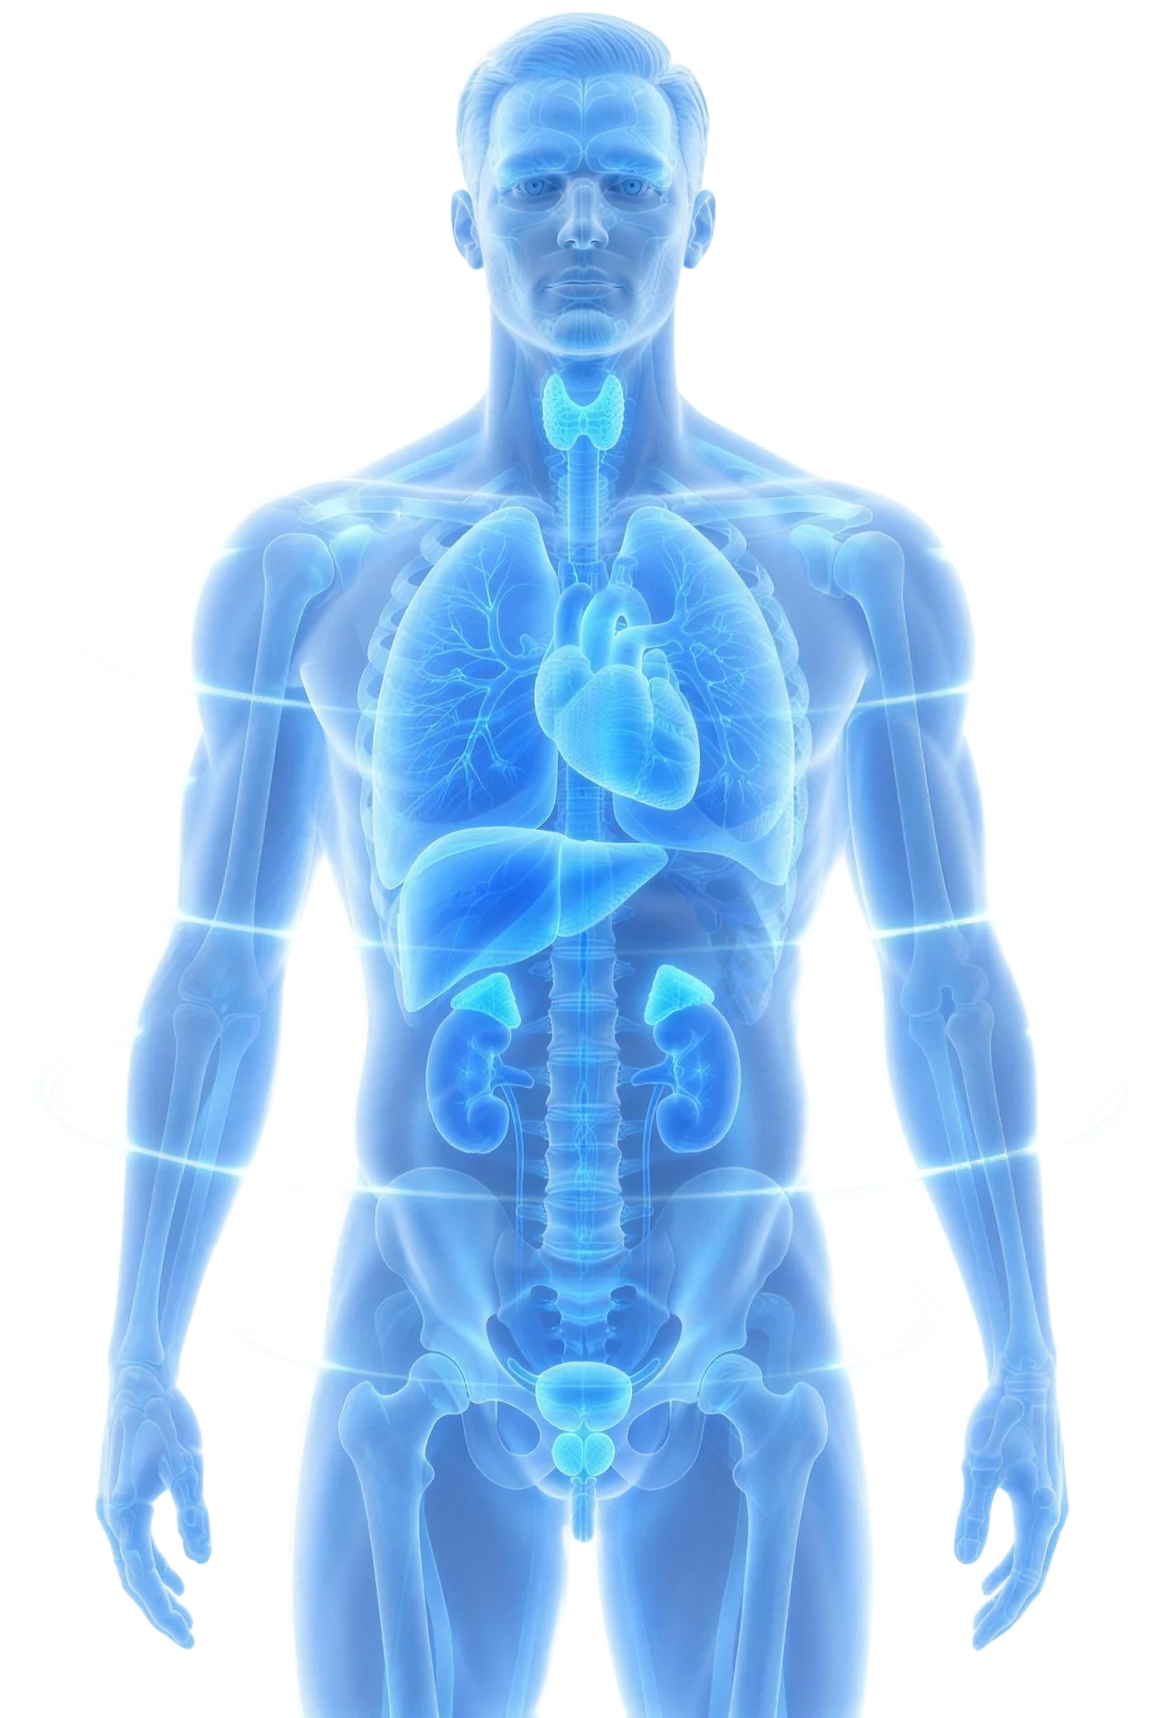
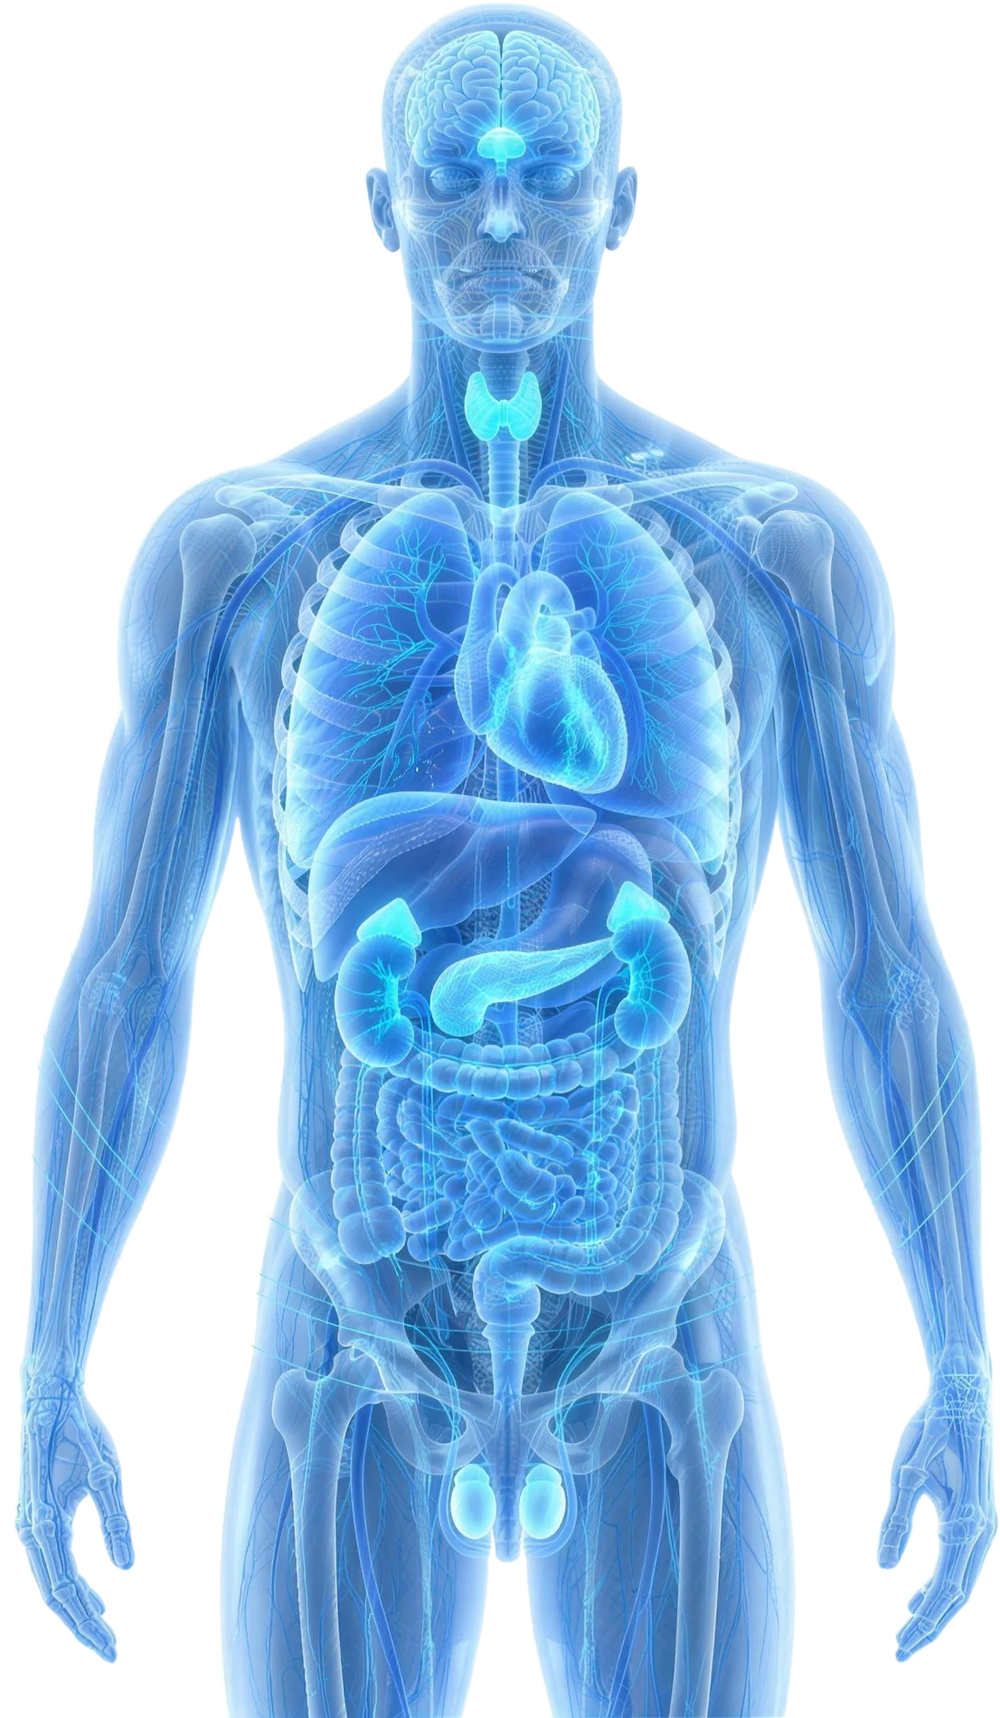
Hero: men and women anatomy figures, every protocol as a body hotspot with a CTA; panel markers section
- Two Higgsfield figures (GPT Image, 2K, cut out): detailed blue male, rose female; Men/Women toggle in the frame, frame tints rose for women
- Eleven hotspots per sex mapping all nine protocols (brain, scalp, skin, thyroid, heart, muscle, liver and kidneys, metabolic, joints, reproductive, sexual health); each label shows the panel markers, one line on what they describe, and a protocol CTA that links to the program page
- Label card stays inside the frame on either side
- New PanelMarkers section after the report preview: men's and women's panels as two glass columns with grouped test names

diff --git a/components/home/AnatomyFigure.tsx b/components/home/AnatomyFigure.tsx
@@ -2,31 +2,79 @@
 
 import { useEffect, useRef, useState } from 'react'
 import Image from 'next/image'
+import Link from 'next/link'
 import { motion, useTransform, useReducedMotion, type MotionValue } from 'framer-motion'
 
 const ease = [0.22, 1, 0.36, 1] as const
 
-/** Every hotspot names tests on the Apex panel. No outcomes, no medicines. */
-export const HOTSPOTS = [
-  { id: 'thyroid',  label: 'Thyroid',        markers: 'TSH · Free T4 · Free T3',                 x: 50, y: 27 },
-  { id: 'heart',    label: 'Heart and vessels', markers: 'Lipids · ApoB · hs-CRP',               x: 46, y: 38 },
-  { id: 'liver',    label: 'Liver',          markers: 'ALT · AST · GGT',                          x: 42, y: 48 },
-  { id: 'adrenal',  label: 'Adrenals',       markers: 'Cortisol · DHEA-S',                        x: 57, y: 46 },
-  { id: 'metabolic',label: 'Metabolic',      markers: 'HbA1c · Fasting insulin · Glucose',        x: 52, y: 54 },
-  { id: 'repro',    label: 'Reproductive',   markers: 'Testosterone · SHBG · Oestradiol · LH',    x: 50, y: 68 },
-] as const
+export type Sex = 'male' | 'female'
+
+type Hotspot = {
+  id: string
+  label: string
+  /** Tests on the Apex panel. Names of tests only, never medicines or outcomes. */
+  markers: string
+  /** One line on what the markers describe. */
+  tells: string
+  /** The pathway that reads these markers first. */
+  protocol: { code: string; name: string; href: string }
+  x: number
+  y: number
+}
+
+// One hotspot per protocol, placed where the body tells the story. Test
+// names only, never medicines or outcomes.
+const SHARED: Omit<Hotspot, 'x' | 'y'>[] = [
+  { id: 'brain',     label: 'Brain and pituitary', markers: 'LH · FSH · Prolactin · IGF-1',                  tells: 'The signals that drive the rest of the hormone system, and how you age.', protocol: { code: 'APX-05', name: 'Anti-Ageing and Longevity', href: '/programs/longevity' } },
+  { id: 'hair',      label: 'Scalp and hair',      markers: 'DHT · SHBG · Ferritin · Thyroid',              tells: 'The four markers behind thinning and shedding.',                        protocol: { code: 'APX-07', name: 'Hair Restoration', href: '/programs/hair-restoration' } },
+  { id: 'skin',      label: 'Skin',                markers: 'Cortisol · DHEA-S · hs-CRP · Zinc · Vitamin D', tells: 'Stress, inflammation and the nutrients skin repairs with.',             protocol: { code: 'APX-06', name: 'Skin Regeneration', href: '/programs/skin-regeneration' } },
+  { id: 'thyroid',   label: 'Thyroid',             markers: 'TSH · Free T4 · Free T3',                      tells: 'Energy, temperature, weight and mood set-point.',                       protocol: { code: 'APX-02', name: 'Medical Weight Loss', href: '/programs/metabolic-weight-loss' } },
+  { id: 'heart',     label: 'Heart and vessels',   markers: 'Lipids · ApoB · hs-CRP · Full blood count',    tells: 'Cardiovascular risk, oxygen carrying and background inflammation.',     protocol: { code: 'APX-09', name: 'Comprehensive Blood Tests', href: '/programs/pathology' } },
+  { id: 'muscle',    label: 'Muscle and recovery', markers: 'Testosterone · IGF-1 · Creatine kinase · Ferritin', tells: 'Output, recovery between sessions and body composition.',           protocol: { code: 'APX-08', name: 'Performance Plus', href: '/programs/performance-plus' } },
+  { id: 'liver',     label: 'Liver and kidneys',   markers: 'ALT · AST · GGT · eGFR · Electrolytes',        tells: 'How the body is coping with load, and what is safe to prescribe.',      protocol: { code: 'APX-09', name: 'Comprehensive Blood Tests', href: '/programs/pathology' } },
+  { id: 'metabolic', label: 'Metabolic',           markers: 'HbA1c · Fasting insulin · Glucose · Magnesium', tells: 'Blood sugar control, insulin resistance and where weight sits.',      protocol: { code: 'APX-02', name: 'Medical Weight Loss', href: '/programs/metabolic-weight-loss' } },
+  { id: 'joint',     label: 'Joints and tissue',   markers: 'hs-CRP · Vitamin D · Collagen markers · IGF-1', tells: 'Inflammation and the repair signals after injury.',                    protocol: { code: 'APX-04', name: 'Recovery and Injury Repair', href: '/programs/injury-repair' } },
+]
+
+const MALE_REPRO: Omit<Hotspot, 'x' | 'y'>[] = [
+  { id: 'repro',  label: 'Reproductive',  markers: 'Total and free testosterone · SHBG · Oestradiol · PSA', tells: 'Drive, muscle, mood and recovery.',            protocol: { code: 'APX-01', name: 'Hormone Optimisation', href: '/programs/hormone-optimisation' } },
+  { id: 'sexual', label: 'Sexual health', markers: 'Testosterone · Prolactin · Lipids · HbA1c',            tells: 'The hormonal and vascular side of performance.', protocol: { code: 'APX-03', name: 'Sexual Health', href: '/programs/sexual-health' } },
+]
+const FEMALE_REPRO: Omit<Hotspot, 'x' | 'y'>[] = [
+  { id: 'repro',  label: 'Reproductive',  markers: 'Oestradiol · Progesterone · FSH · LH · Testosterone', tells: 'Cycle, energy, mood and body composition.',      protocol: { code: 'APX-01', name: 'Hormone Optimisation', href: '/programs/hormone-optimisation' } },
+  { id: 'sexual', label: 'Sexual health', markers: 'Oestradiol · Testosterone · Prolactin · Thyroid',     tells: 'Libido, comfort and the hormones behind both.',  protocol: { code: 'APX-03', name: 'Sexual Health', href: '/programs/sexual-health' } },
+]
+
+/** Positions are percentages of the frame, tuned to each figure. */
+const POS: Record<Sex, Record<string, [number, number]>> = {
+  male:   { brain: [50, 11], hair: [50, 5], skin: [56, 16], thyroid: [50, 27], heart: [52, 38], muscle: [33, 34], liver: [43, 48], metabolic: [49, 55], joint: [68, 44], repro: [50, 73], sexual: [50, 80] },
+  female: { brain: [50, 11], hair: [50, 5], skin: [56, 16], thyroid: [50, 27], heart: [52, 38], muscle: [34, 34], liver: [43, 48], metabolic: [49, 55], joint: [67, 44], repro: [50, 63], sexual: [50, 72] },
+}
+
+export function hotspotsFor(sex: Sex): Hotspot[] {
+  const list = [...SHARED, ...(sex === 'male' ? MALE_REPRO : FEMALE_REPRO)]
+  return list.map(h => ({ ...h, x: POS[sex][h.id][0], y: POS[sex][h.id][1] }))
+}
+
+const FIGURE: Record<Sex, { src: string; alt: string }> = {
+  male:   { src: '/photos/anatomy.webp',        alt: 'A translucent male figure showing the systems the Apex panel measures' },
+  female: { src: '/photos/anatomy-female.webp', alt: 'A translucent female figure showing the systems the Apex panel measures' },
+}
 
 /**
- * The interactive anatomy piece. A translucent figure on a soft mesh with
- * six hotspots, each naming the panel markers for that system. The active
- * hotspot cycles on its own until the visitor hovers or taps one; the whole
- * figure breathes and leans with the cursor.
+ * The interactive anatomy piece. A translucent figure on a soft mesh with a
+ * hotspot per system. Each hotspot names the panel markers for that system,
+ * what they describe, and the protocol that reads them first, with a link.
+ * Men and women each get their own figure and reproductive markers. The
+ * active hotspot cycles on its own until the visitor touches one.
  */
 export default function AnatomyFigure({ sx, sy }: { sx: MotionValue<number>; sy: MotionValue<number> }) {
   const reduced = useReducedMotion()
-  const [active, setActive] = useState(0)
+  const [sex, setSex] = useState<Sex>('male')
+  const [active, setActive] = useState(1)
   const [manual, setManual] = useState(false)
   const timer = useRef<number | null>(null)
+  const spots = hotspotsFor(sex)
   const figX = useTransform(sx, v => v * 10)
   const figY = useTransform(sy, v => v * 10)
   const rotY = useTransform(sx, v => v * 4)
@@ -34,13 +82,14 @@ export default function AnatomyFigure({ sx, sy }: { sx: MotionValue<number>; sy:
 
   useEffect(() => {
     if (manual || reduced) return
-    timer.current = window.setInterval(() => setActive(a => (a + 1) % HOTSPOTS.length), 3200)
+    timer.current = window.setInterval(() => setActive(a => (a + 1) % spots.length), 3400)
     return () => { if (timer.current) window.clearInterval(timer.current) }
-  }, [manual, reduced])
+  }, [manual, reduced, spots.length])
 
   const pick = (i: number) => { setManual(true); setActive(i) }
-  const spot = HOTSPOTS[active]
-  const labelLeft = spot.x < 50
+  const spot = spots[active]
+  // The card sits on whichever side has room; never past the frame edge.
+  const labelLeft = spot.x >= 46
 
   return (
     <div className="relative" id="hero-anatomy-slot" aria-label="The systems on the Apex panel">
@@ -49,23 +98,25 @@ export default function AnatomyFigure({ sx, sy }: { sx: MotionValue<number>; sy:
         initial={reduced ? false : { opacity: 0, y: 30, scale: 0.97 }}
         animate={{ opacity: 1, y: 0, scale: 1 }}
         transition={{ duration: 1.1, delay: 0.2, ease }}
-        className="relative mesh rounded-[32px] overflow-hidden"
+        className={`relative ${sex === 'female' ? 'mesh-rose' : 'mesh'} rounded-[32px] overflow-hidden`}
       >
         <div aria-hidden="true" className="absolute inset-0" style={{ boxShadow: 'inset 0 0 0 1px rgba(255,255,255,0.9), inset 0 -80px 120px rgba(255,255,255,0.6)' }} />
 
-        {/* Concentric rings behind the figure. */}
         <svg aria-hidden="true" viewBox="0 0 400 500" className="absolute inset-0 w-full h-full" style={{ opacity: 0.5 }}>
           {[70, 120, 170, 220].map(r => (
             <circle key={r} cx="200" cy="230" r={r} fill="none" stroke="rgba(72,144,247,0.22)" strokeWidth="1" strokeDasharray={r > 120 ? '2 6' : undefined} />
           ))}
         </svg>
 
-        <div className={`absolute inset-[6%] ${reduced ? '' : 'breathe'}`}>
-          <Image src="/photos/anatomy.webp" alt="A translucent human figure showing the systems the Apex panel measures" fill priority sizes="(min-width: 1024px) 520px, 100vw" className="object-contain" style={{ objectPosition: '50% 50%' }} />
-        </div>
+        {/* The figure. Both are mounted so the toggle is instant; only one is visible. */}
+        {(['male', 'female'] as Sex[]).map(s => (
+          <motion.div key={s} className={`absolute inset-[6%] ${reduced ? '' : 'breathe'}`} initial={false} animate={{ opacity: s === sex ? 1 : 0, scale: s === sex ? 1 : 0.98 }} transition={{ duration: 0.5, ease }} style={{ pointerEvents: 'none' }}>
+            <Image src={FIGURE[s].src} alt={s === sex ? FIGURE[s].alt : ''} fill priority={s === 'male'} sizes="(min-width: 1024px) 520px, 100vw" className="object-contain" />
+          </motion.div>
+        ))}
 
         {/* Hotspots */}
-        {HOTSPOTS.map((h, i) => {
+        {spots.map((h, i) => {
           const on = i === active
           return (
             <button
@@ -77,7 +128,7 @@ export default function AnatomyFigure({ sx, sy }: { sx: MotionValue<number>; sy:
               aria-label={`${h.label}: ${h.markers}`}
               aria-pressed={on}
               className="absolute w-7 h-7 -ml-3.5 -mt-3.5 rounded-full flex items-center justify-center focus-visible:outline focus-visible:outline-2 focus-visible:outline-offset-2"
-              style={{ left: `${h.x}%`, top: `${h.y}%`, outlineColor: 'var(--blue)', background: 'transparent', border: 'none', cursor: 'pointer', zIndex: on ? 3 : 2 }}
+              style={{ left: `${h.x}%`, top: `${h.y}%`, outlineColor: 'var(--blue)', background: 'transparent', border: 'none', cursor: 'pointer', zIndex: on ? 3 : 2, transition: 'left 0.5s ease, top 0.5s ease' }}
             >
               {on && !reduced && <span aria-hidden="true" className="hotspot-ring absolute inset-0 rounded-full" style={{ background: 'rgba(72,144,247,0.35)' }} />}
               <span aria-hidden="true" className="relative rounded-full transition-all duration-300" style={{ width: on ? 12 : 8, height: on ? 12 : 8, background: on ? 'var(--blue)' : '#fff', boxShadow: on ? '0 0 0 4px rgba(255,255,255,0.9), 0 0 24px rgba(72,144,247,0.6)' : '0 0 0 2px rgba(72,144,247,0.6)' }} />
@@ -85,19 +136,34 @@ export default function AnatomyFigure({ sx, sy }: { sx: MotionValue<number>; sy:
           )
         })}
 
-        {/* The active label */}
+        {/* The active label: markers, what they tell you, and the protocol CTA. */}
         <motion.div
-          key={spot.id}
+          key={`${sex}-${spot.id}`}
           initial={reduced ? false : { opacity: 0, y: 6, scale: 0.98 }}
           animate={{ opacity: 1, y: 0, scale: 1 }}
           transition={{ duration: 0.35, ease }}
-          className="absolute glass-card pointer-events-none"
-          style={{ left: labelLeft ? undefined : `${spot.x + 5}%`, right: labelLeft ? `${100 - spot.x + 5}%` : undefined, top: `${spot.y - 3}%`, padding: '10px 14px', borderRadius: 16, maxWidth: 220, zIndex: 4 }}
+          className="absolute glass-card"
+          style={{ left: labelLeft ? undefined : `${Math.min(spot.x + 5, 52)}%`, right: labelLeft ? `${Math.min(100 - spot.x + 4, 52)}%` : undefined, top: `${Math.min(Math.max(spot.y - 4, 16), 62)}%`, padding: '12px 14px 12px', borderRadius: 18, width: 236, maxWidth: '46%', zIndex: 4 }}
           aria-live="polite"
         >
-          <span className="block text-[12.5px] font-semibold" style={{ color: 'var(--text-primary)', letterSpacing: '-0.01em' }}>{spot.label}</span>
+          <span className="block text-[13px] font-semibold" style={{ color: 'var(--text-primary)', letterSpacing: '-0.01em' }}>{spot.label}</span>
           <span className="block text-[11px] mt-0.5 leading-snug" style={{ color: 'var(--text-secondary)' }}>{spot.markers}</span>
+          <span className="block text-[11px] mt-1.5 leading-snug" style={{ color: 'var(--text-muted)' }}>{spot.tells}</span>
+          <Link href={spot.protocol.href} className="mt-2.5 inline-flex items-center gap-1.5 no-underline text-[11.5px] font-semibold rounded-full" style={{ padding: '7px 11px', background: 'var(--text-primary)', color: '#fff' }}>
+            <span className="t-mono" style={{ fontSize: 8.5, opacity: 0.7 }}>{spot.protocol.code}</span>
+            {spot.protocol.name}
+            <svg viewBox="0 0 16 16" fill="none" width={11} height={11} aria-hidden="true"><path d="M3 8h10M9 4l4 4-4 4" stroke="currentColor" strokeWidth="2" strokeLinecap="round" strokeLinejoin="round" /></svg>
+          </Link>
         </motion.div>
+
+        {/* Sex toggle */}
+        <div className="absolute right-5 top-5 glass-card flex" style={{ padding: 4, borderRadius: 999 }} role="group" aria-label="Show figure for">
+          {(['male', 'female'] as Sex[]).map(s => (
+            <button key={s} type="button" onClick={() => { setSex(s); setManual(true) }} aria-pressed={sex === s} className="t-mono rounded-full transition-colors duration-200" style={{ padding: '7px 12px', fontSize: 9.5, background: sex === s ? 'var(--text-primary)' : 'transparent', color: sex === s ? '#fff' : 'var(--text-muted)', border: 'none', cursor: 'pointer' }}>
+              {s === 'male' ? 'Men' : 'Women'}
+            </button>
+          ))}
+        </div>
 
         {/* Readout chips */}
         <div className="absolute left-5 top-5 glass-card" style={{ padding: '12px 16px', borderRadius: 18 }}>
@@ -114,9 +180,8 @@ export default function AnatomyFigure({ sx, sy }: { sx: MotionValue<number>; sy:
         </p>
       </motion.div>
 
-      {/* Hotspot index under the frame: keyboard and touch users get a list. */}
       <ul className="list-none p-0 m-0 mt-4 flex flex-wrap gap-2" aria-label="Systems on the panel">
-        {HOTSPOTS.map((h, i) => (
+        {spots.map((h, i) => (
           <li key={h.id}>
             <button type="button" onClick={() => pick(i)} className="t-mono rounded-full transition-colors duration-200" style={{ padding: '7px 11px', fontSize: 9.5, background: i === active ? 'var(--text-primary)' : 'transparent', color: i === active ? '#fff' : 'var(--text-muted)', border: `1px solid ${i === active ? 'var(--text-primary)' : 'var(--border)'}`, cursor: 'pointer' }}>
               {h.label}

diff --git a/components/home/PanelMarkers.tsx b/components/home/PanelMarkers.tsx
@@ -1,0 +1,87 @@
+'use client'
+
+import { useRef } from 'react'
+import Link from 'next/link'
+import { motion, useInView, useReducedMotion } from 'framer-motion'
+import RevealText from '@/components/motion/RevealText'
+
+const ease = [0.22, 1, 0.36, 1] as const
+
+/** What the doctor orders. Test names only, grouped the way the report groups them. */
+const MEN = [
+  ['Hormones', 'Total and free testosterone, SHBG, oestradiol, LH, FSH, prolactin, DHEA-S, cortisol'],
+  ['Growth', 'IGF-1'],
+  ['Thyroid', 'TSH, free T4, free T3'],
+  ['Metabolic', 'Fasting glucose, HbA1c, fasting insulin, magnesium'],
+  ['Lipids and heart', 'Total cholesterol, triglycerides, HDL, LDL, ApoB, hs-CRP'],
+  ['Liver and kidney', 'Liver function (LFT), kidney function (UEC)'],
+  ['Blood', 'Full blood count, haematocrit, ferritin and iron studies'],
+  ['Prostate', 'PSA'],
+  ['Vitamins', 'Vitamin D, B12'],
+]
+const WOMEN = [
+  ['Hormones', 'Oestradiol, progesterone, free and total testosterone, SHBG, LH, FSH, prolactin, DHEA-S, cortisol'],
+  ['Thyroid', 'TSH, free T4, free T3, thyroid antibodies'],
+  ['Metabolic', 'Fasting glucose, HbA1c, fasting insulin, magnesium'],
+  ['Lipids and heart', 'Total cholesterol, triglycerides, HDL, LDL, ApoB, hs-CRP'],
+  ['Liver and kidney', 'Liver function (LFT), kidney function (UEC)'],
+  ['Blood', 'Full blood count, ferritin and iron studies'],
+  ['Vitamins', 'Vitamin D, B12, folate'],
+]
+
+/**
+ * PROVE, part three: exactly what is on the panel, for men and for women.
+ * Two glass columns on a mesh field; the doctor adds or removes markers on
+ * the call, and the copy says so.
+ */
+export default function PanelMarkers() {
+  const reduced = useReducedMotion()
+  const ref = useRef<HTMLElement>(null)
+  const inView = useInView(ref, { once: true, margin: '-120px' })
+  const reveal = (delay: number, y = 22) =>
+    reduced ? { initial: false as const } : { initial: { opacity: 0, y }, animate: inView ? { opacity: 1, y: 0 } : {}, transition: { duration: 0.7, delay, ease } }
+
+  const Column = ({ title, rows, delay, code }: { title: string; rows: string[][]; delay: number; code: string }) => (
+    <motion.div {...reveal(delay, 26)} className="glass-card" style={{ padding: 'clamp(22px, 3vw, 32px)' }}>
+      <div className="flex items-baseline justify-between gap-4 mb-5">
+        <h3 className="t-h3 m-0">{title}</h3>
+        <span className="t-readout" style={{ fontSize: 26, color: 'var(--text-primary)' }}>{rows.reduce((n, r) => n + r[1].split(',').length, 0)}+</span>
+      </div>
+      <ul className="list-none p-0 m-0 flex flex-col">
+        {rows.map(([group, markers]) => (
+          <li key={group} className="grid grid-cols-[120px_1fr] gap-3 py-3" style={{ borderTop: '1px solid rgba(15,23,42,0.07)' }}>
+            <span className="t-mono" style={{ color: 'var(--text-muted)', paddingTop: 3 }}>{group}</span>
+            <span className="text-[14.5px] leading-snug" style={{ color: 'var(--text-primary)' }}>{markers}</span>
+          </li>
+        ))}
+      </ul>
+      <p className="t-mono mt-5 mb-0" style={{ color: 'var(--text-muted)', fontSize: 9 }}>{code} · Ordered after intake · Doctor adjusts on the call</p>
+    </motion.div>
+  )
+
+  return (
+    <section ref={ref} id="panel" className="band-light section-y mesh" aria-label="What is on the panel">
+      <div className="container-x">
+        <div className="max-w-2xl mb-12 md:mb-16">
+          <motion.p {...reveal(0, 10)} className="t-eyebrow" style={{ marginBottom: 20 }}>The panel</motion.p>
+          <RevealText as="h2" className="t-h2" style={{ marginBottom: 20 }} text="Every marker, for men and for women." />
+          <motion.p {...reveal(0.3, 14)} className="t-body" style={{ color: 'var(--text-secondary)', maxWidth: '54ch' }}>
+            This is the baseline your doctor orders. Nothing is hidden behind a consult. The markers differ by sex because the questions do.
+          </motion.p>
+        </div>
+        <div className="grid grid-cols-1 lg:grid-cols-2 gap-5">
+          <Column title="Men’s panel" rows={MEN} delay={0.15} code="APX-09M" />
+          <Column title="Women’s panel" rows={WOMEN} delay={0.25} code="APX-09W" />
+        </div>
+        <motion.div {...reveal(0.5)} className="flex flex-wrap items-center justify-between gap-4 mt-8">
+          <p className="text-[12.5px] leading-relaxed m-0" style={{ color: 'var(--text-muted)', maxWidth: '62ch' }}>
+            Collected at any of 4,000+ accredited centres. Most results are back within 48 hours and reviewed by your doctor before your call.
+          </p>
+          <Link href="/programs/pathology" className="link-draw text-[15px] font-medium" style={{ color: 'var(--color-accent-fg)' }}>
+            See the pathology pathway
+          </Link>
+        </motion.div>
+      </div>
+    </section>
+  )
+}

diff --git a/app/page.tsx b/app/page.tsx
@@ -7,6 +7,7 @@ import ProtocolBento from '@/components/home/ProtocolBento'
 import Pathway from '@/components/home/Pathway'
 import PortalPeek from '@/components/home/PortalPeek'
 import ReportPreview from '@/components/home/ReportPreview'
+import PanelMarkers from '@/components/home/PanelMarkers'
 import DoctorCard from '@/components/DoctorCard'
 import Pricing from '@/components/home/Pricing'
 import Values from '@/components/home/Values'
@@ -43,6 +44,7 @@ export default function Home() {
         <Pathway />
         <PortalPeek />
         <ReportPreview />
+        <PanelMarkers />
         <DoctorCard />
         <Pricing />
         <Values />

diff --git a/app/globals.css b/app/globals.css
@@ -469,6 +469,14 @@ html.lenis, html.lenis body { height: auto; }
     radial-gradient(70% 60% at 50% 100%, rgba(255, 236, 214, 0.45) 0%, transparent 70%),
     #f6f8fa;
 }
+.mesh-rose {
+  background:
+    radial-gradient(60% 55% at 18% 20%, rgba(252, 205, 220, 0.6) 0%, transparent 70%),
+    radial-gradient(55% 60% at 82% 30%, rgba(255, 224, 214, 0.55) 0%, transparent 70%),
+    radial-gradient(70% 60% at 50% 100%, rgba(238, 214, 240, 0.5) 0%, transparent 70%),
+    #faf6f8;
+  transition: background 0.5s ease;
+}
 .mesh-blue {
   background:
     radial-gradient(55% 60% at 80% 20%, rgba(72, 144, 247, 0.18) 0%, transparent 70%),
